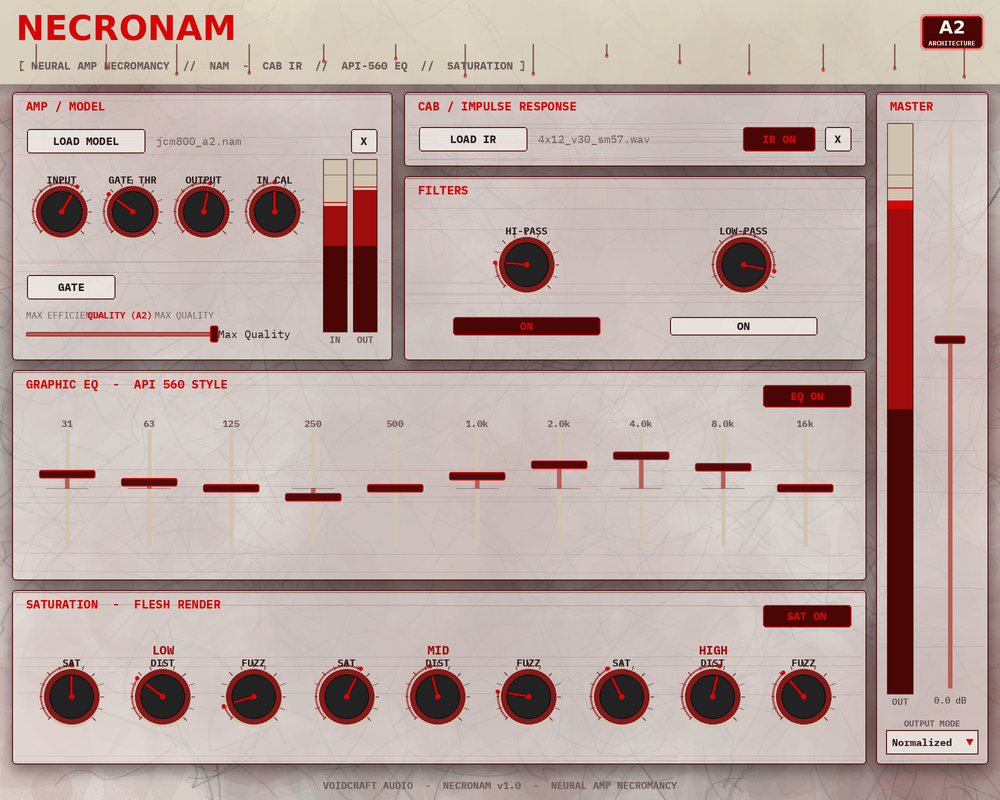
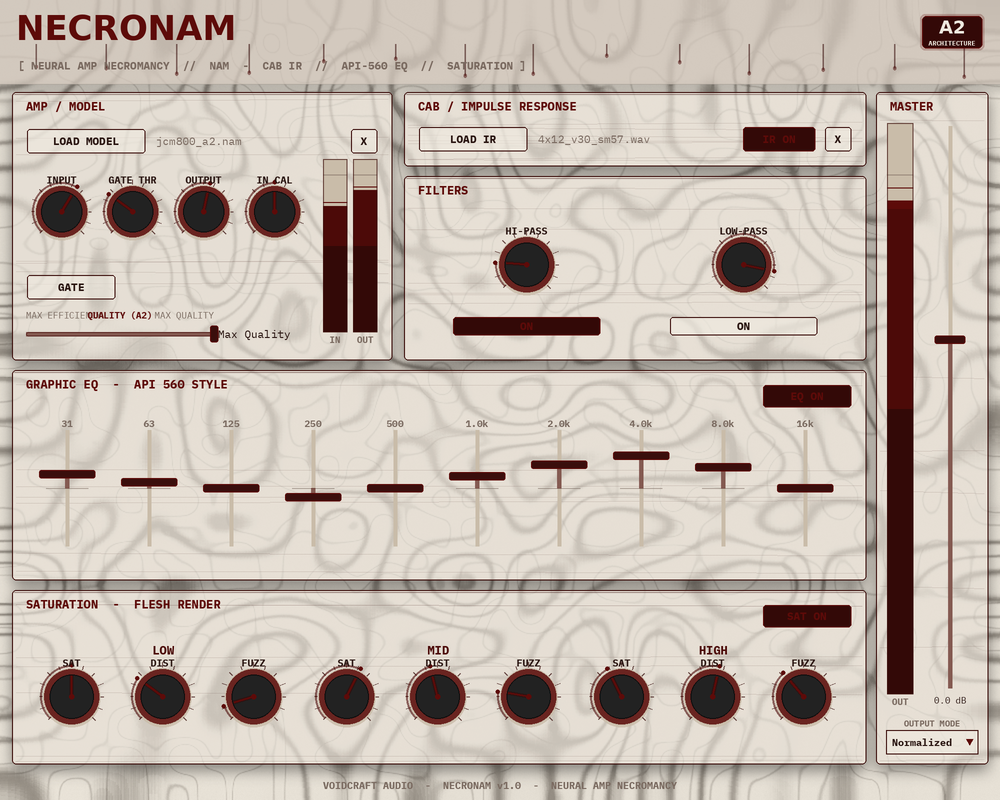
Match reference: sampled oxblood palette + bundled marble texture
Sampled the reference image and corrected the look:
- Palette recoloured to the reference (muted oxblood reds ~#3E110E/#5D0B09
  instead of vivid #D60606; warmer #E6E0D5 marble base; grey veins). Fixes the
  logo/outline reds reading too bright/saturated.
- Bundle a real aged-marble texture (Resources/parchment.png) via
  juce_add_binary_data and paint it as the editor background (stretched),
  replacing the procedural blobs; drop the red grain overlay.
- Preview now loads the SAME texture asset, so preview and plugin share one
  background (the preview is still a PIL approximation of the controls/fonts).

Note: preview.png is a mockup, not a plugin screenshot — exact control/font
rendering only appears in a real macOS build.

Claude-Session: https://claude.ai/code/session_01FJi3sQMpMM9estjZNdFp5K

diff --git a/NECRONAM/Source/PluginEditor.cpp b/NECRONAM/Source/PluginEditor.cpp
@@ -1,4 +1,5 @@
 #include "PluginEditor.h"
+#include "BinaryData.h"
 
 using namespace horror;
 
@@ -211,52 +212,9 @@ void NecronamAudioProcessorEditor::timerCallback()
 // ===========================================================================
 void NecronamAudioProcessorEditor::buildBackground()
 {
-    const int w = getWidth(), h = getHeight();
-    if (w <= 0 || h <= 0)
-        return;
-
-    mBackground = juce::Image (juce::Image::RGB, w, h, false);
-    juce::Graphics g (mBackground);
-    g.fillAll (c (COL_BACKGROUND));
-
-    juce::Random rng (0x804E04);
-
-    // Soft mottled staining (low-frequency blobs) — grey, rust and bone.
-    for (int i = 0; i < (w * h) / 1200; ++i)
-    {
-        const float x = rng.nextFloat() * w;
-        const float y = rng.nextFloat() * h;
-        const float r = 18.0f + rng.nextFloat() * 130.0f;
-        const int pick = rng.nextInt (3);
-        auto col = pick == 0 ? c (COL_VEIN) : (pick == 1 ? c (COL_RUST) : c (COL_BONE_DIM));
-        g.setColour (col.withAlpha (0.03f + rng.nextFloat() * 0.05f));
-        g.fillEllipse (x - r, y - r, r * 2.0f, r * 2.0f);
-    }
-
-    // Marble veins (meandering quadratic strokes) — greyer and more pronounced.
-    for (int i = 0; i < (w + h) / 9; ++i)
-    {
-        juce::Path p;
-        float x = rng.nextFloat() * w, y = rng.nextFloat() * h;
-        p.startNewSubPath (x, y);
-        const int segs = 4 + rng.nextInt (5);
-        for (int s = 0; s < segs; ++s)
-        {
-            const float nx = x + rng.nextFloat() * 170.0f - 85.0f;
-            const float ny = y + rng.nextFloat() * 170.0f - 85.0f;
-            p.quadraticTo ((x + nx) * 0.5f + rng.nextFloat() * 50.0f - 25.0f,
-                           (y + ny) * 0.5f + rng.nextFloat() * 50.0f - 25.0f, nx, ny);
-            x = nx; y = ny;
-        }
-        // Soft wide vein underlay + a darker hairline core for marble depth.
-        g.setColour (c (COL_VEIN).withAlpha (0.10f + rng.nextFloat() * 0.10f));
-        g.strokePath (p, juce::PathStrokeType (1.6f + rng.nextFloat() * 1.8f));
-        g.setColour (c (COL_VEIN).darker (0.5f).withAlpha (0.12f + rng.nextFloat() * 0.10f));
-        g.strokePath (p, juce::PathStrokeType (0.6f + rng.nextFloat() * 0.5f));
-    }
-
-    // Fine flecks on top.
-    HorrorLookAndFeel::drawGrainTexture (g, mBackground.getBounds(), 0.05f);
+    // Embedded aged-marble texture (shared with the repo preview image).
+    mBackground = juce::ImageCache::getFromMemory (BinaryData::parchment_png,
+                                                   BinaryData::parchment_pngSize);
 }
 
 void NecronamAudioProcessorEditor::paint (juce::Graphics& g)
@@ -264,7 +222,8 @@ void NecronamAudioProcessorEditor::paint (juce::Graphics& g)
     const auto w = getWidth();
 
     if (mBackground.isValid())
-        g.drawImageAt (mBackground, 0, 0);
+        g.drawImage (mBackground, getLocalBounds().toFloat(),
+                     juce::RectanglePlacement::stretchToFit);
     else
         g.fillAll (c (COL_BACKGROUND));
 
@@ -370,9 +329,6 @@ void NecronamAudioProcessorEditor::paint (juce::Graphics& g)
     g.setFont (monoFont (10.0f));
     g.drawText ("VOIDCRAFT AUDIO  -  NECRONAM v1.0  -  NEURAL AMP NECROMANCY",
                 juce::Rectangle<int> (0, getHeight() - 26, w, 22), juce::Justification::centred);
-
-    // Grain overlay.
-    HorrorLookAndFeel::drawGrainTexture (g, getLocalBounds());
 }
 
 // ===========================================================================

diff --git a/NECRONAM/Source/HorrorLookAndFeel.h b/NECRONAM/Source/HorrorLookAndFeel.h
@@ -4,29 +4,29 @@
 
 namespace horror
 {
-    // ----- High-Contrast "Gory Light Mode" Palette (Stained Bone & Arterial Blood) -----
-    inline constexpr juce::uint32 COL_BACKGROUND   = 0xFFF2EFE9; // Aged, dried bone surface
-    inline constexpr juce::uint32 COL_HEADER_BG    = 0xFFE5DEC9; // Heavily stained, darker bone tier
-    inline constexpr juce::uint32 COL_PANEL_BG     = 0xFFF7F5F0; // Bright bone white for high UI panel contrast
-    inline constexpr juce::uint32 COL_PANEL_BORDER = 0xFF501212; // Coagulated scab-red borders
+    // ----- Light "Stained Marble" palette, colour-matched to the reference image -----
+    inline constexpr juce::uint32 COL_BACKGROUND   = 0xFFE6E0D5; // Aged marble / parchment base
+    inline constexpr juce::uint32 COL_HEADER_BG    = 0xFFCEC3B8; // Darker stained marble (header tier)
+    inline constexpr juce::uint32 COL_PANEL_BG     = 0xFFEFEAE0; // Cleaner marble for panels
+    inline constexpr juce::uint32 COL_PANEL_BORDER = 0xFF3E110E; // Oxblood outline
 
-    inline constexpr juce::uint32 COL_BLOOD_DARK   = 0xFF4A0505; // Deep, oxidized scab red
-    inline constexpr juce::uint32 COL_BLOOD        = 0xFF9E0C0C; // Rich, arterial blood red
-    inline constexpr juce::uint32 COL_BLOOD_BRIGHT = 0xFFD60606; // Vivid, freshly spilled visceral red
+    inline constexpr juce::uint32 COL_BLOOD_DARK   = 0xFF330907; // Deep dried oxblood
+    inline constexpr juce::uint32 COL_BLOOD        = 0xFF4C0A08; // Oxidized blood red
+    inline constexpr juce::uint32 COL_BLOOD_BRIGHT = 0xFF5D0B09; // Brightest accent present (a muted brick)
 
-    inline constexpr juce::uint32 COL_BONE         = 0xFF2A1C1C; // Deep crimson-tinted near-black for readable text
-    inline constexpr juce::uint32 COL_BONE_DIM     = 0xFF6D5A5A; // Dried blood stain color for inactive text/markers
+    inline constexpr juce::uint32 COL_BONE         = 0xFF2A1612; // Near-black crimson for readable text
+    inline constexpr juce::uint32 COL_BONE_DIM     = 0xFF7A6A60; // Faded stain for inactive text/markers
 
-    inline constexpr juce::uint32 COL_KNOB_BODY    = 0xFF500A0A; // Clotted blood chunk knob body
-    inline constexpr juce::uint32 COL_KNOB_SHINE   = 0xFF851A1A; // Fresh wet shine on the knob cap
-    inline constexpr juce::uint32 COL_KNOB_SHADOW  = 0xFFD0C3B0; // Soft bone-tinted drop shadow (instead of black)
-    inline constexpr juce::uint32 COL_RUST         = 0xFF7D3C3C; // Dried flesh / rust accent
+    inline constexpr juce::uint32 COL_KNOB_BODY    = 0xFF3A0E0C; // Dark clotted knob body
+    inline constexpr juce::uint32 COL_KNOB_SHINE   = 0xFF6A2420; // Muted wet shine
+    inline constexpr juce::uint32 COL_KNOB_SHADOW  = 0xFFC9BCA9; // Soft marble-tinted drop shadow
+    inline constexpr juce::uint32 COL_RUST         = 0xFF7D5A50; // Dried flesh / rust accent
 
-    // Light bone tone for text/marks drawn on top of dark blood fills.
-    inline constexpr juce::uint32 COL_BONE_LIGHT   = 0xFFF7F5F0;
+    // Light tone for text/marks drawn on top of dark blood fills.
+    inline constexpr juce::uint32 COL_BONE_LIGHT   = 0xFFEFEAE0;
 
-    // Neutral grey for marble veins in the parchment background texture.
-    inline constexpr juce::uint32 COL_VEIN         = 0xFF6C6864;
+    // Warm grey for marble veins (matches reference vein tone).
+    inline constexpr juce::uint32 COL_VEIN         = 0xFFA09990;
 
     inline juce::Colour c (juce::uint32 argb) { return juce::Colour (argb); }
 }
